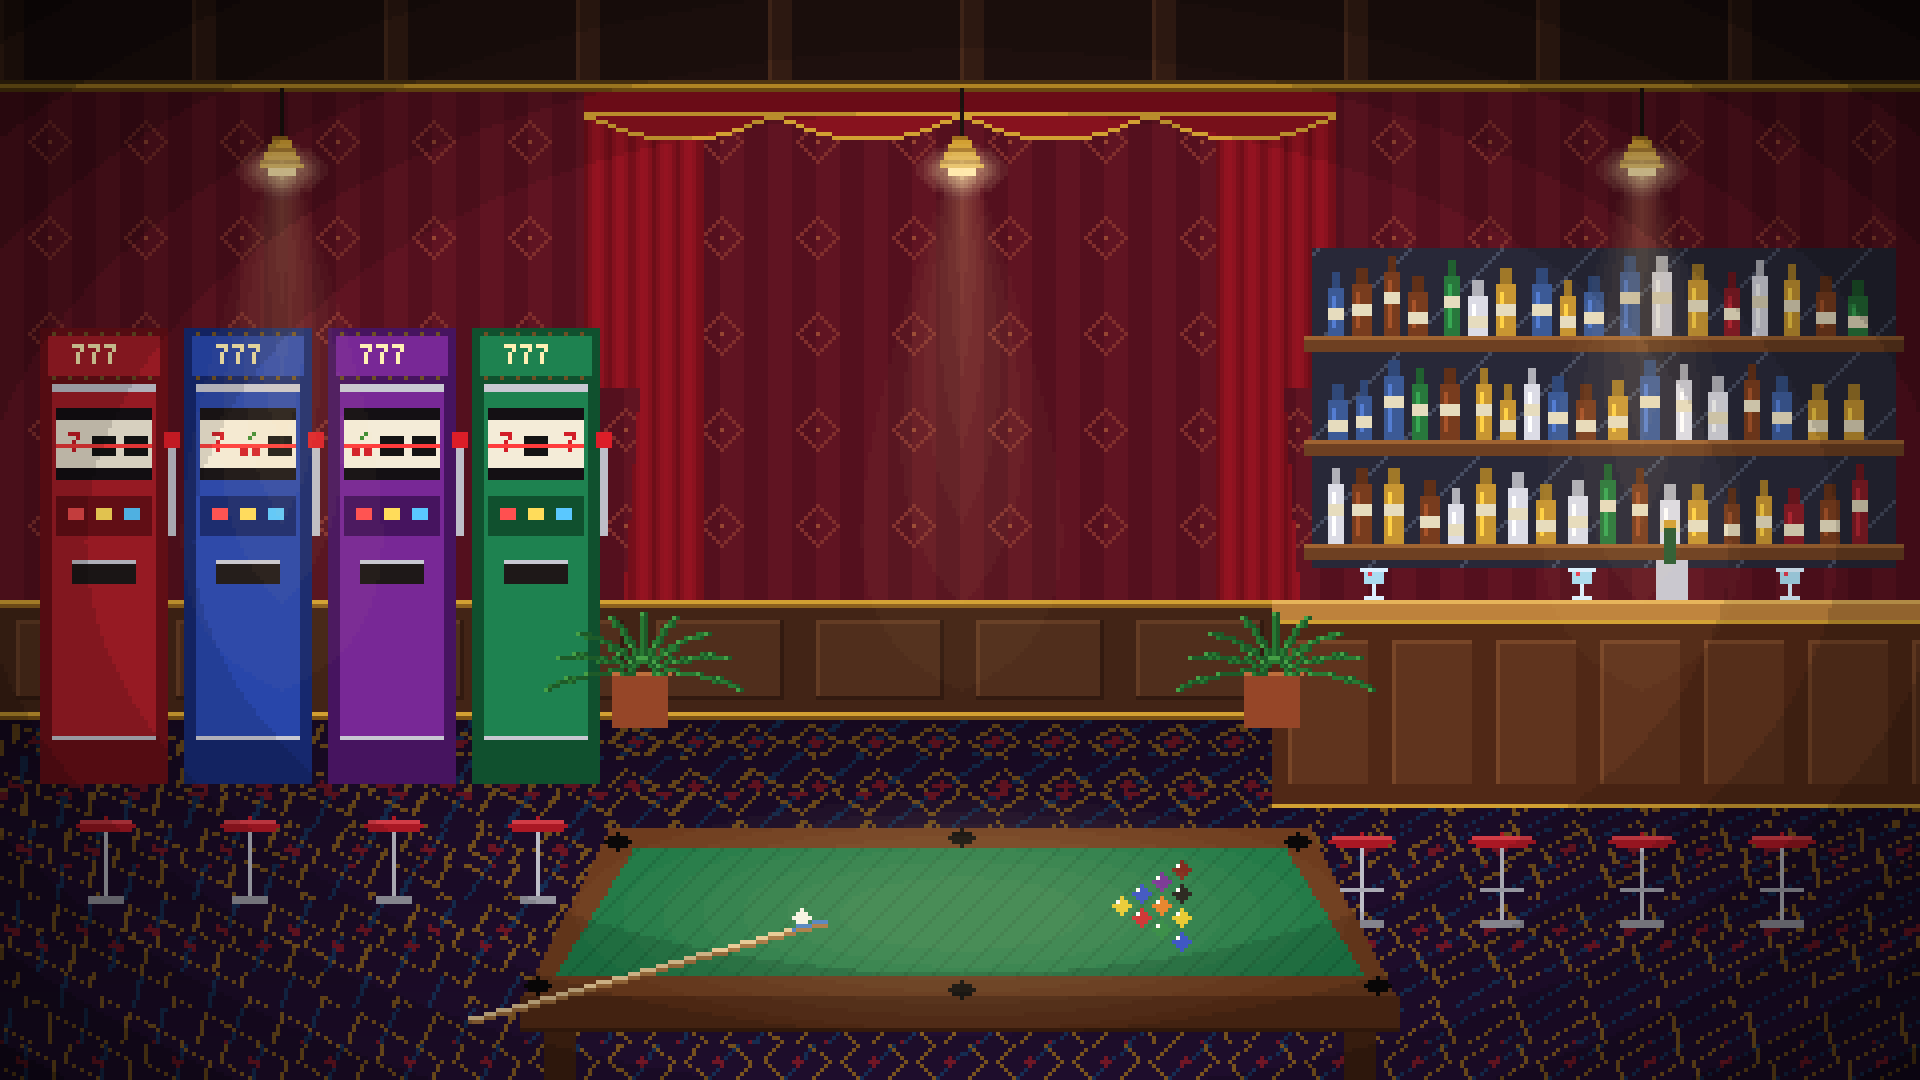
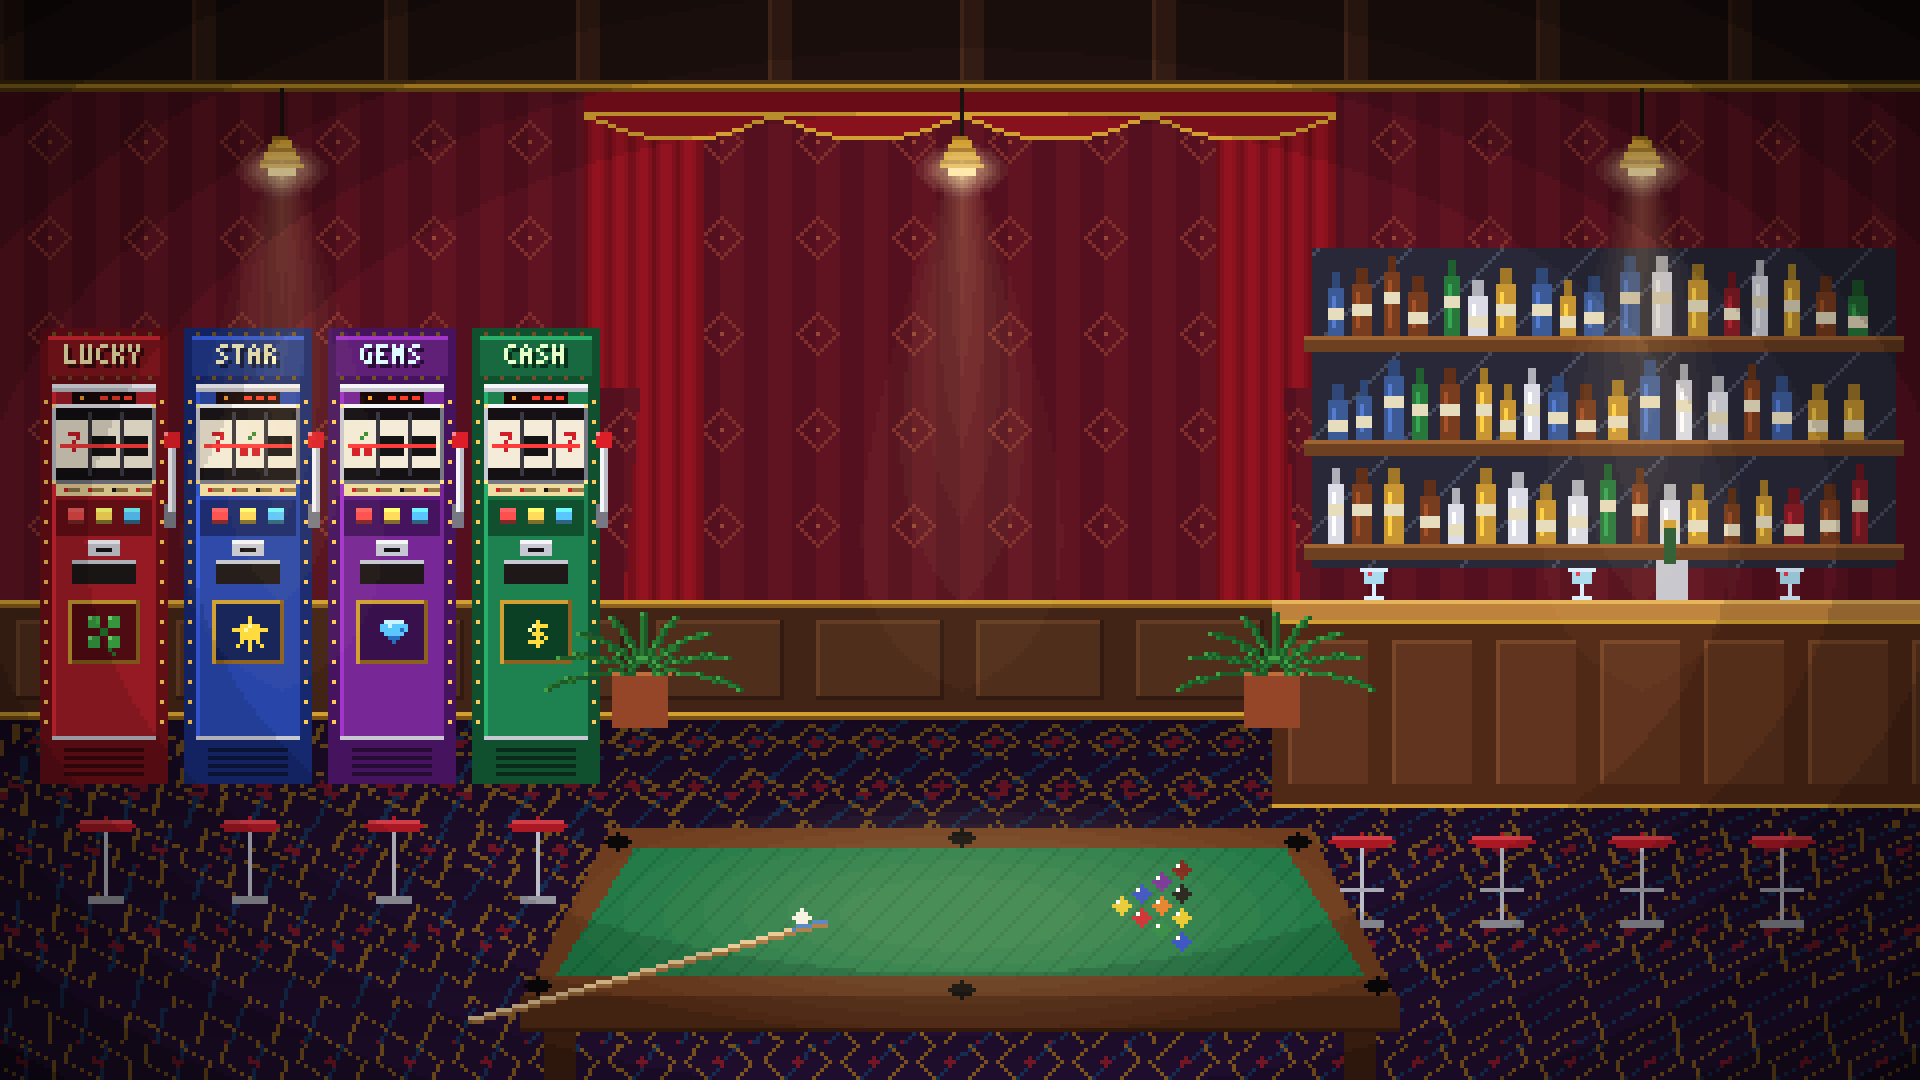
Menu : machines à sous détaillées et nommées, néon COIN
- Chaque machine porte son propre nom et son emblème (LUCKY, STAR, GEMS, CASH)
- Détails ajoutés : afficheur de crédits, cadre chromé riveté, table des gains,
  fente à pièces, plaque ventrale, grille de haut-parleur, diodes latérales
- Le néon 777 devient COIN (menu/neon_coin.png)
- Suppression des anciennes images du menu (casino_menu*.png, neon_777.png)

Claude-Session: https://claude.ai/code/session_01X8JUbRCmhDC6kVwW8wEAZa

diff --git a/core/src/main/java/fr/astratime/lucky/views/MenuDecor.java b/core/src/main/java/fr/astratime/lucky/views/MenuDecor.java
@@ -21,7 +21,7 @@ import java.util.List;
 
 /**
  * Décor animé du menu : l'intérieur du casino (assets/menu/casino_interior.png)
- * et, par-dessus, ce qui bouge. Les néons « 777 » et « BAR » grésillent de
+ * et, par-dessus, ce qui bouge. Les néons « COIN » et « BAR » grésillent de
  * temps en temps, les ampoules des machines à sous clignotent, les rouleaux
  * des machines se lancent à tour de rôle (un jackpot de temps en temps fait
  * clignoter la machine et cracher des pièces) et de la poussière dorée flotte
@@ -63,7 +63,7 @@ public class MenuDecor extends Group implements Disposable {
     private static final float BULB_PARTY_BLINK = 0.08f;  // pendant un jackpot
 
     private final Texture backgroundTexture = load("menu/casino_interior.png");
-    private final Texture neon777Texture    = load("menu/neon_777.png");
+    private final Texture neonCoinTexture    = load("menu/neon_coin.png");
     private final Texture neonBarTexture    = load("menu/neon_bar.png");
     private final Texture bulbsATexture     = load("menu/bulbs_a.png");
     private final Texture bulbsBTexture     = load("menu/bulbs_b.png");
@@ -71,7 +71,7 @@ public class MenuDecor extends Group implements Disposable {
     private final Texture coinTexture       = load("jackpot/coin_spin.png");
 
     private final Image                     background;
-    private final Neon                      neon777;
+    private final Neon                      neonCoin;
     private final Neon                      neonBar;
     private final Image                     bulbsA;
     private final Image                     bulbsB;
@@ -106,9 +106,9 @@ public class MenuDecor extends Group implements Disposable {
             nextSpin[m] = MathUtils.random(0.5f, SPIN_WAIT_MAX);
         }
 
-        neon777 = new Neon(neon777Texture);
+        neonCoin = new Neon(neonCoinTexture);
         neonBar = new Neon(neonBarTexture);
-        addActor(neon777);
+        addActor(neonCoin);
         addActor(neonBar);
         addActor(dust);
         coins = new CoinShower(new TextureRegion(coinTexture), Vector2::new, () -> { }, 0.6f);
@@ -131,7 +131,7 @@ public class MenuDecor extends Group implements Disposable {
         setSize(width, height);
         gridScaleX = width / GRID_WIDTH;
         gridScaleY = height / GRID_HEIGHT;
-        for (Actor actor : new Actor[] {background, bulbsA, bulbsB, neon777, neonBar}) {
+        for (Actor actor : new Actor[] {background, bulbsA, bulbsB, neonCoin, neonBar}) {
             actor.setBounds(0f, 0f, width, height);
         }
         for (int m = 0; m < MACHINES; m++) {
@@ -194,7 +194,7 @@ public class MenuDecor extends Group implements Disposable {
     @Override
     public void dispose() {
         backgroundTexture.dispose();
-        neon777Texture.dispose();
+        neonCoinTexture.dispose();
         neonBarTexture.dispose();
         bulbsATexture.dispose();
         bulbsBTexture.dispose();
